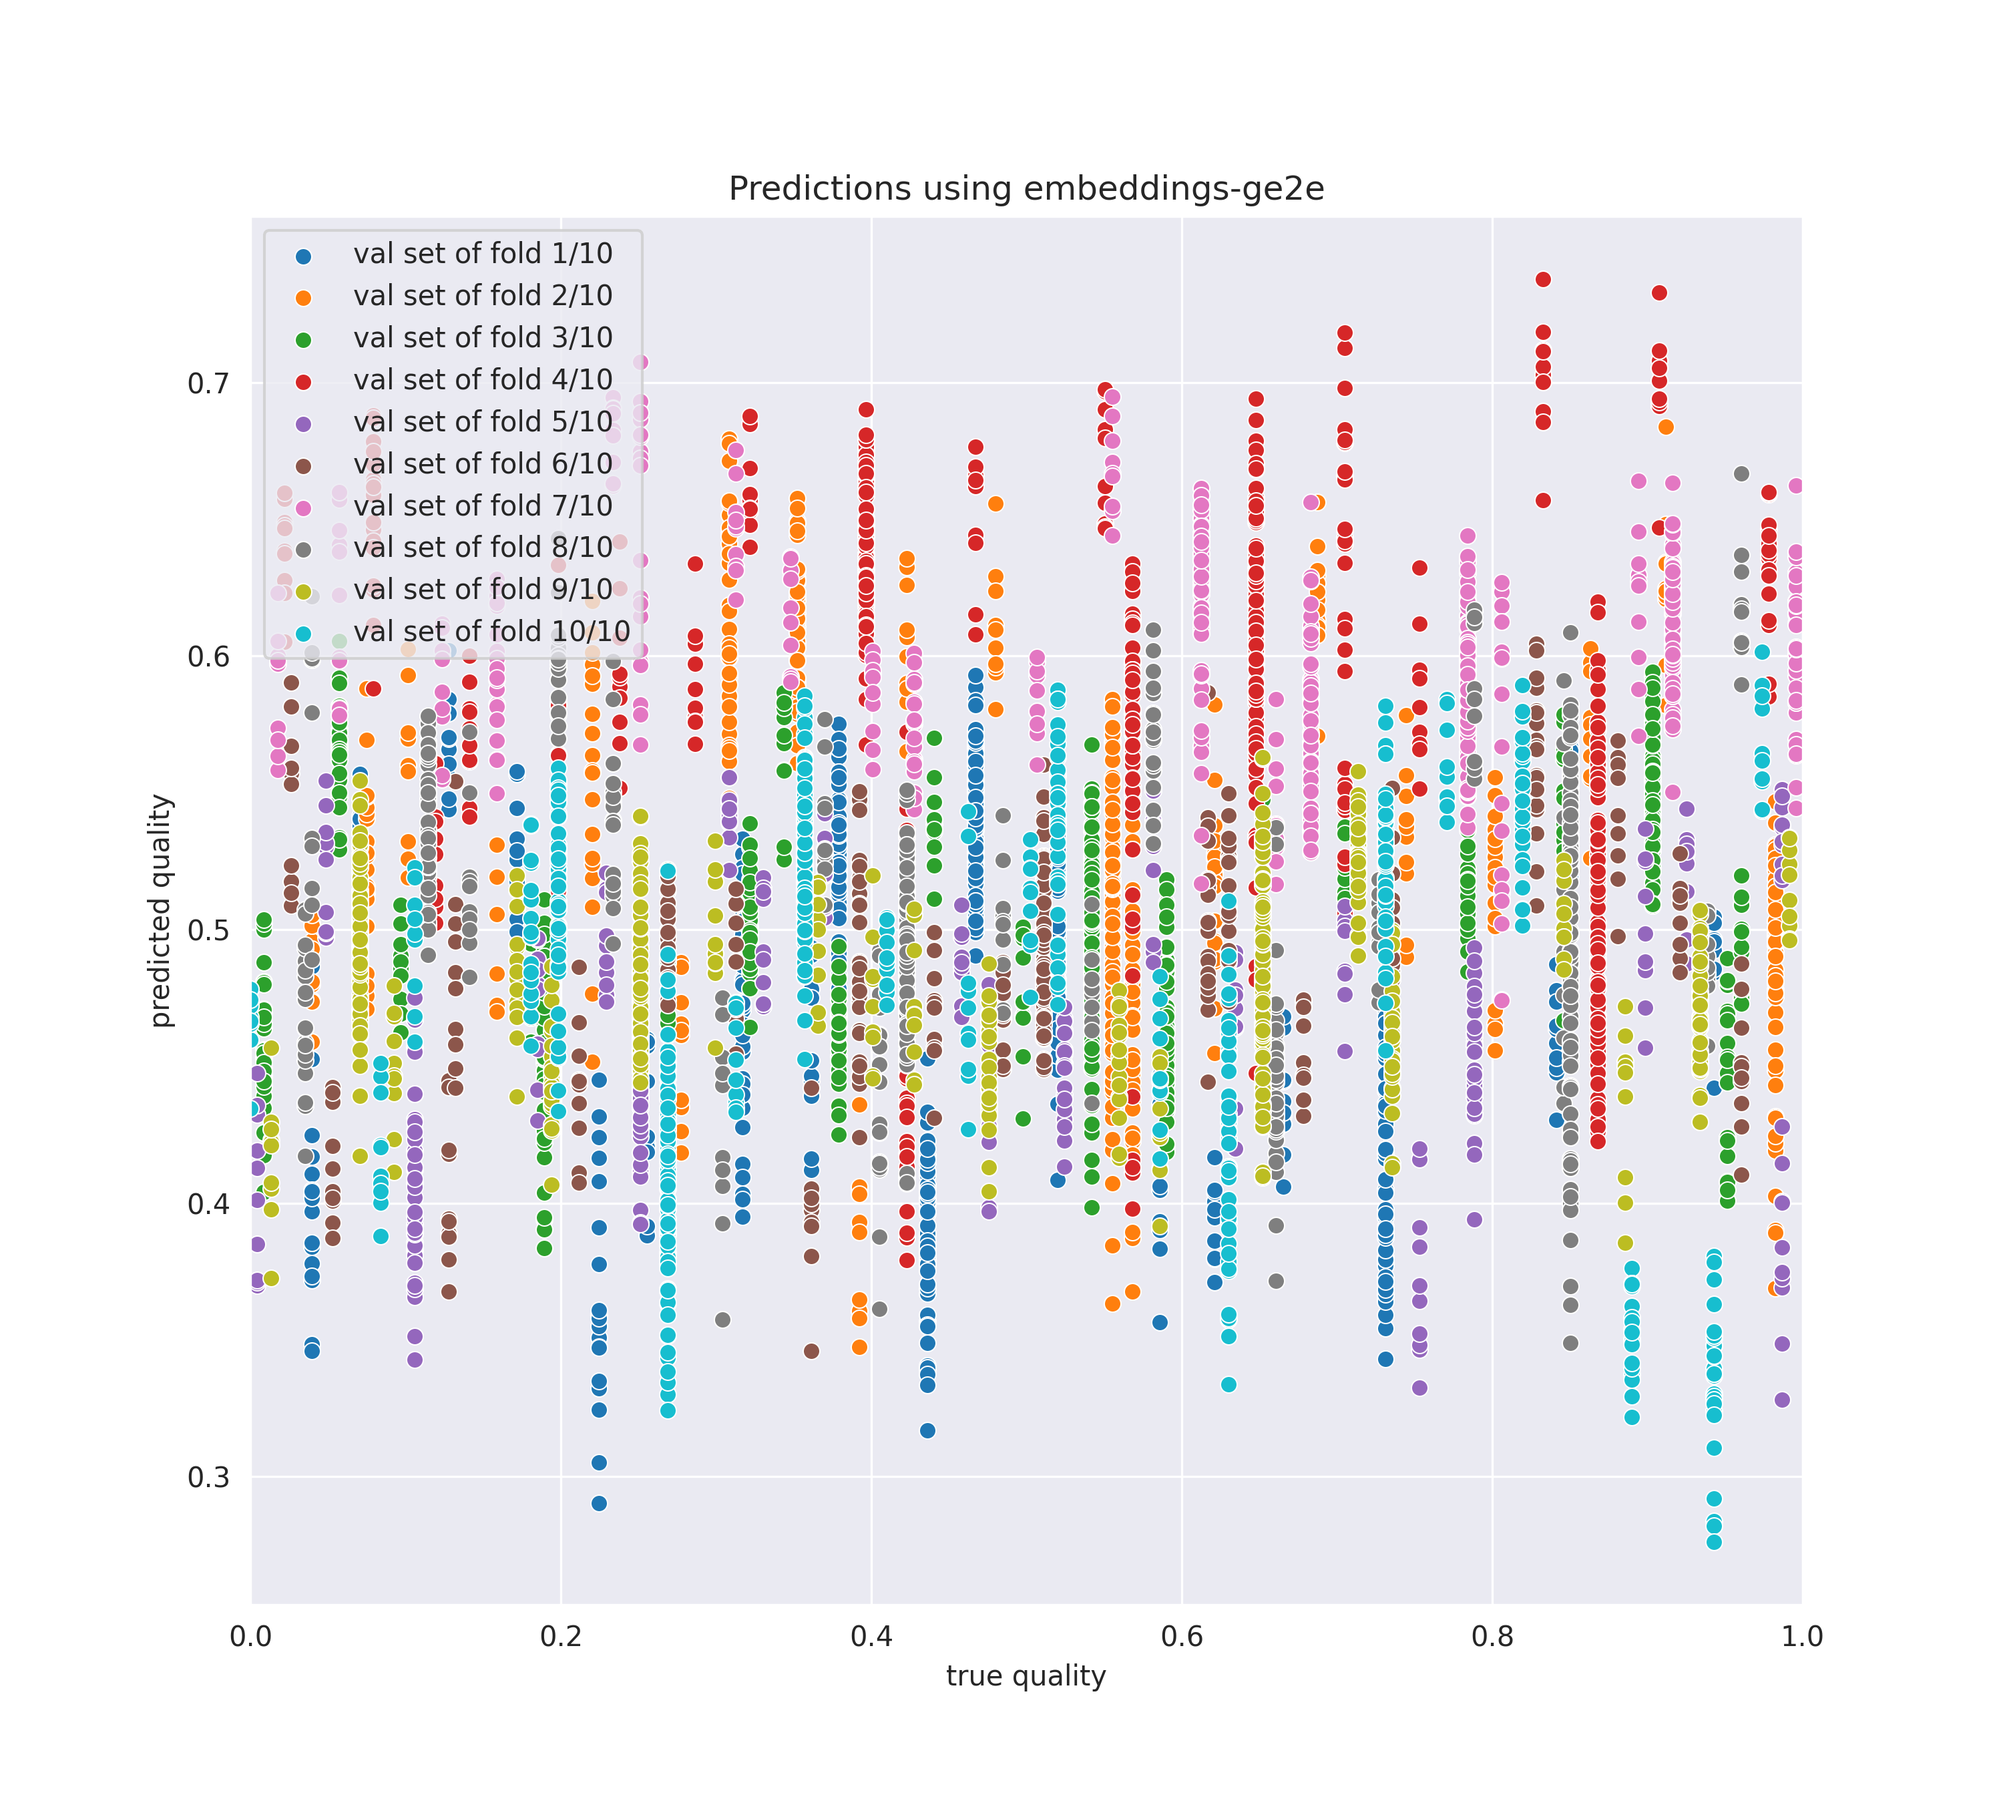
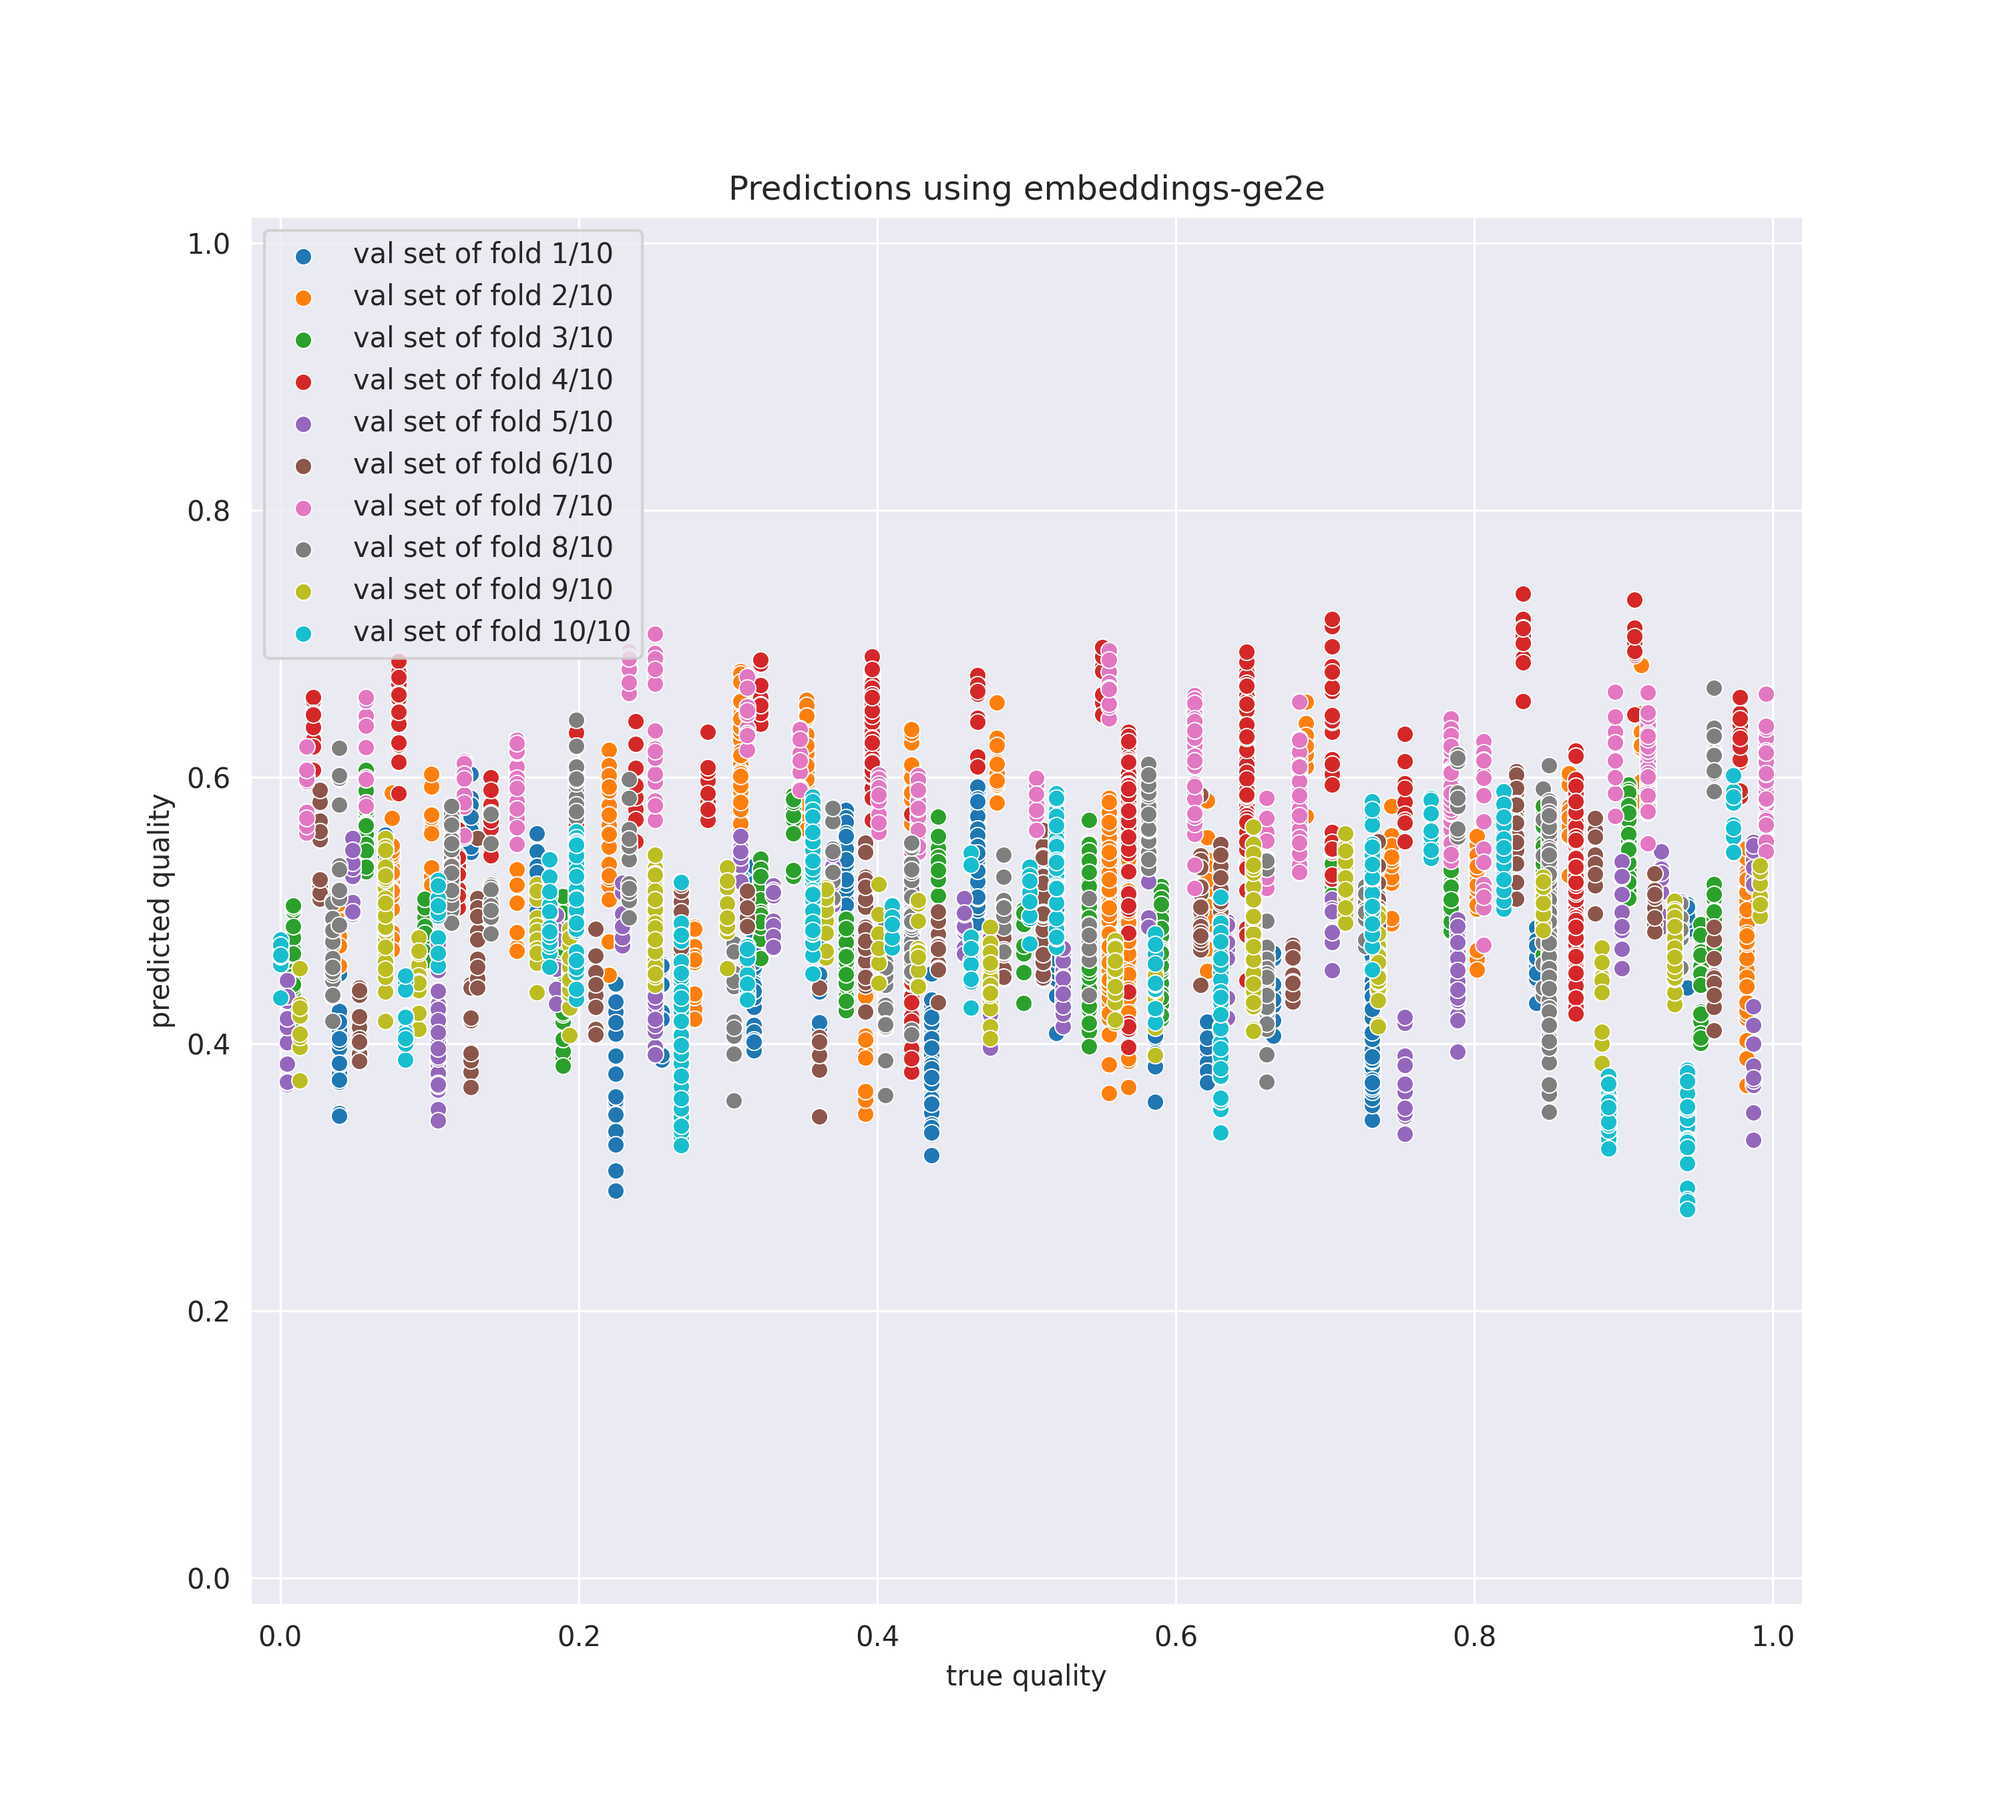
add random forest regressor

diff --git a/sklearn_quality_estimator.py b/sklearn_quality_estimator.py
@@ -1,0 +1,87 @@
+from sklearn.neighbors import KNeighborsRegressor
+from sklearn.ensemble import RandomForestRegressor
+from cross_validation_generator import get_folds
+from human_id import generate_id
+import numpy as np
+from sklearn.utils import shuffle
+from sklearn.metrics import mean_squared_error
+import pickle
+from statistics import mean
+
+CROSS_VAL = 10
+LOSS = "mean_squared_error"
+FEATURE_TYPE = "embeddings-ge2e"  # embeddings-ge2e, embeddings-trill, feature-streams (embeddings dir name)
+FEATURE_DIR = "split-10"  # split-10, ... (subdir name in ./wavs)
+METHOD = 'RF'  # KNN, RF
+
+
+def predict(save_predictions=False, n_neighbors=300, max_depth=20):
+    generator = get_folds(FEATURE_TYPE, FEATURE_DIR, timeseries=False, folds=CROSS_VAL, seed=21)
+    run_name = generate_id(word_count=3)
+
+    print(f"Starting run {run_name}-{METHOD} ...")
+
+    loss_per_fold = []
+    predictions = []
+    truths = []
+
+    for i in range(1, CROSS_VAL + 1):
+        print('--------------------------------')
+        print(f"Starting cross validation {i}/{CROSS_VAL}")
+        print('--------------------------------\n')
+
+        x_train, y_train, x_val, y_val = next(generator)
+
+        print(f'Created folds for iteration {i}')
+
+        x_train = np.array(x_train)
+        x_val = np.array(x_val)
+        y_train = np.array(y_train)
+        y_val = np.array(y_val)
+
+        x_train, y_train = shuffle(x_train, y_train)
+
+        if METHOD == 'KNN':
+            knn = KNeighborsRegressor(n_neighbors=n_neighbors)
+            knn.fit(x_train, y_train)
+            prediction = knn.predict(x_val)
+        elif METHOD == 'RF':
+            rf = RandomForestRegressor(max_depth=max_depth)
+            rf.fit(x_train, y_train)
+            prediction = rf.predict(x_val)
+
+        loss = mean_squared_error(y_val, prediction)
+
+        print(f'MSE for fold {i}: {loss}\n')
+
+        predictions += [prediction.flatten().tolist()]
+        loss_per_fold += [loss]
+        truths += [y_val.flatten().tolist()]
+
+    avg_loss = mean(loss_per_fold)
+    print(f'\nMSE loss per fold: {loss_per_fold}')
+    print(f"Average loss for {'k=' + str(n_neighbors) if METHOD == 'KNN' else 'max_depth=' + str(max_depth)}: {avg_loss}")
+
+    if save_predictions:
+        predictionsname = f"predictions/{FEATURE_TYPE}-{METHOD}-{avg_loss:.4f}-{run_name}.pickle"
+        pickle.dump((predictions, truths), open(predictionsname, "wb"))
+        print(f'Saved predictions as {predictionsname}')
+
+    return avg_loss
+
+
+def hyperparameter_search(start, end, stride):
+    print(f'Hyperparameter search for {METHOD} from {start} to {end} in steps of {stride}')
+    params = []
+    loss_per_param = []
+    for p in range(start, end+stride, stride):  # (10, 1010, 10) for k hyperparameter search from 10 to 1000 in steps of 10
+        print(f'Parameter: {p}/{end}')
+        avg_loss = predict(n_neighbors=p) if METHOD == 'KNN' else predict(max_depth=p)
+        params += [p]
+        loss_per_param += [avg_loss]
+    print(params)
+    print(loss_per_param)
+
+# predict(max_depth=2)
+
+hyperparameter_search(4, 120, 4)

diff --git a/plot-scripts/plot_prediction_results.py b/plot-scripts/plot_prediction_results.py
@@ -63,7 +63,8 @@ def plot_predictions_as_scatterplot(predictions, truths, feature_type, timeserie
     """
     plt.figure(figsize=(10, 9))
     sns.set_style("darkgrid")
-    plt.xlim(0, 1)
+    plt.xlim(-0.02, 1.02)
+    plt.ylim(-0.02, 1.02)
     if len(predictions) == 10:
         for i in range(10):
             sns.scatterplot(truths[i], predictions[i], label=f"val set of fold {i + 1}/10")
@@ -81,7 +82,8 @@ def plot_desired_scatterplot(truths, feature_type):
     """
     plt.figure(figsize=(10, 9))
     sns.set_style("darkgrid")
-    plt.xlim(0, 1)
+    plt.xlim(-0.02, 1.02)
+    plt.ylim(-0.02, 1.02)
     if len(truths) == 10:
         for i in range(10):
             noisy_truth = list(map(lambda x: min(1, max(0, x * 0.8 + 0.1 +
@@ -102,6 +104,17 @@ def plot_predictions(feature_type, predictions=None, timeseries=False, knn=False
             key=lambda x: float(x.split('-')[3 if timeseries or knn else 2]))
         predictions = predictions[0]
     (predictions, truths) = pickle.load(open(f'../predictions/{predictions}', 'rb'))
+    # for some reason, predictions for timeseries are series
+    # I didn't have the time to fix this, so I take the mean of each predicted series
+    if timeseries:
+        new_predictions = []
+        for i in range(10):
+            compressed_predictions = []
+            factor = int(len(predictions[i]) / len(truths[i]))
+            for j in range(len(truths[i])):
+                compressed_predictions += [mean(predictions[i][j*factor:(j+1)*factor])]
+            new_predictions += [compressed_predictions]
+        predictions = new_predictions
     plot_predictions_as_histogram(predictions, truths, feature_type, dataset, timeseries, knn)
     plot_predictions_as_density(predictions, feature_type, timeseries, knn)
     plot_predictions_as_scatterplot(predictions, truths, feature_type, timeseries, knn)
@@ -110,6 +123,6 @@ def plot_predictions(feature_type, predictions=None, timeseries=False, knn=False
 
 plot_predictions('embeddings-trill')
 plot_predictions('embeddings-ge2e')
-# plot_predictions('feature-streams', timeseries=True)
+plot_predictions('feature-streams', timeseries=True)
 plot_predictions('embeddings-ge2e', knn=True)
 plot_predictions('embeddings-trill', knn=True)
